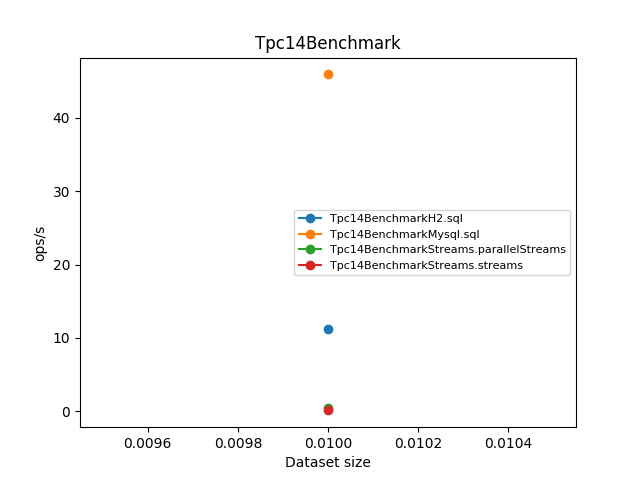
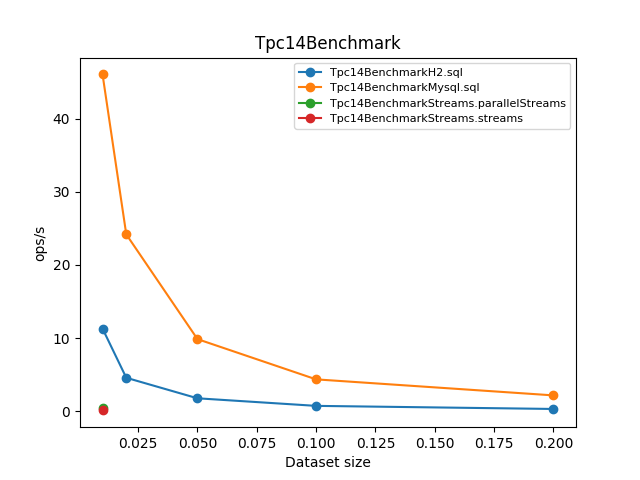
Reasonable dataset sizes, [T]

diff --git a/text/src/content.tex b/text/src/content.tex
@@ -592,12 +592,18 @@ Filtering: 5
 * porównanie push-pull (Observable), streamy nie są async mimo parallell
 
 \subsection{Ocena i krytyka}
+
+    Wprowadzenie do języka Java mechanizmów programowania funkcyjnego zostało bardzo pozytywnie ocenione przez programistów, mimo iż mechanizmy te obecne były w innych językach programowania ogólnego przeznaczenia znacznie wcześniej. Duży nacisk projektantów platformy na wsteczną kompatybilność i obawy przed wprowadzeniem zmian, które nie okażą się korzystne, a konieczne będzie ich utrzymywanie, powodują, że język ten nie rozwija się w takim tempie, jak inne języki. 
+
+    Jednym z najczęściej występujących zarzutów odnośnie Stream API jest brak odpowiedzi na istniejące w języku C\# i platformie .NET narzędzie LINQ-to-SQL. Pozwala ono na dostęp do danych znajdujących się w bazie relacyjnej za pomocą specjalniej składni kodu C\#, z automatycznym odwzorowaniem typu ORM. Strumienie umożliwiają tworzenie dość złożonych kombinacji operacji, natomiast wszystkie te operacje zachodzą w pamięci maszyny wirtualnej. Nie jest możliwe tłumaczenie metod klasy \texttt{Stream} na słowa kluczowe zapytania SQL. Taką możliwość dają dodatkowe biblioteki, np. JOOQ bądź Hibernate Criteria API, ale dostępne one były jeszcze przed wydaniem Java 8. 
+
+    Kolejnym argumentem przemiawiającym na niekorzyść strumieni jest obiektywnie niewielka liczba operacji możliwych do wykonywania na strumieniach. Podstawowe operacje znane z języków funkcyjnych są oczywiście dostępne, natomiast postanowiono celowo nie rozszerzać zbytnio API klasy \texttt{Stream}, aby nie spowodować bałaganu. Znaczy to, iż popularne operatory funkcyjne, znane z innych języków programowania, takie jak \texttt{takeWhile}, \texttt{zip} czy \texttt{sliding} nie są dostępne i nie będą w natywnej formie, ponieważ nie jest możliwe modyfikowanie klas języka Java bez tworzenia własnych klas pośredniczących. Istnieją co prawda biblioteki takie jak jOOQlambda czy StreamEx, dostarczające dodatkowe funkcjonalności, ale nie są one oficjalne i nie posiadają wsparcia ze strony języka. W nowej wersji języka, Java 9, zapowiedziano wprowadzenie kilku dodatkowych operatorów, ale nie jest to nadal to samo.
+
 * fjp sucks
-* mało operacji (takewhile, java 9, inne libki)
 * nie async mimo parallel
 * czemu iterable nie stream
 
-\section{Propozycje rozwiązań problemów}
+\section{Propozycje rozwiązań}
 
 \subsection{Strumieniowy operator złączenia}
 

diff --git a/src/jmh/java/masterthesis/tpc/tpc14/Tpc14BenchmarkMysql.java b/src/jmh/java/masterthesis/tpc/tpc14/Tpc14BenchmarkMysql.java
@@ -18,7 +18,7 @@ public class Tpc14BenchmarkMysql {
     
     Connection connection;
     
-    @Param({"0.01"})
+    @Param({"0.01", "0.02", "0.05", "0.1", "0.2"})
     public String scaleFactor;
     
     @Setup

diff --git a/src/jmh/java/masterthesis/tpc/tpc4/Tpc4BenchmarkMysql.java b/src/jmh/java/masterthesis/tpc/tpc4/Tpc4BenchmarkMysql.java
@@ -20,7 +20,7 @@ public class Tpc4BenchmarkMysql {
     
     Connection connection;
     
-    @Param({"0.01", "0.02"})
+    @Param({"0.01", "0.02", "0.05", "0.1"})
     public String scaleFactor;
     
     @Setup

diff --git a/src/jmh/java/masterthesis/tpc/tpc14/Tpc14BenchmarkH2.java b/src/jmh/java/masterthesis/tpc/tpc14/Tpc14BenchmarkH2.java
@@ -18,7 +18,7 @@ public class Tpc14BenchmarkH2 {
     
     Connection connection;
     
-    @Param({"0.01"})
+    @Param({"0.01", "0.02", "0.05", "0.1", "0.2"})
     public String scaleFactor;
     
     @Setup

diff --git a/src/jmh/java/masterthesis/tpc/tpc4/Tpc4BenchmarkH2.java b/src/jmh/java/masterthesis/tpc/tpc4/Tpc4BenchmarkH2.java
@@ -20,7 +20,7 @@ public class Tpc4BenchmarkH2 {
     
     Connection connection;
     
-    @Param({"0.01", "0.02"})
+    @Param({"0.01", "0.02", "0.05", "0.1"})
     public String scaleFactor;
     
     @Setup
